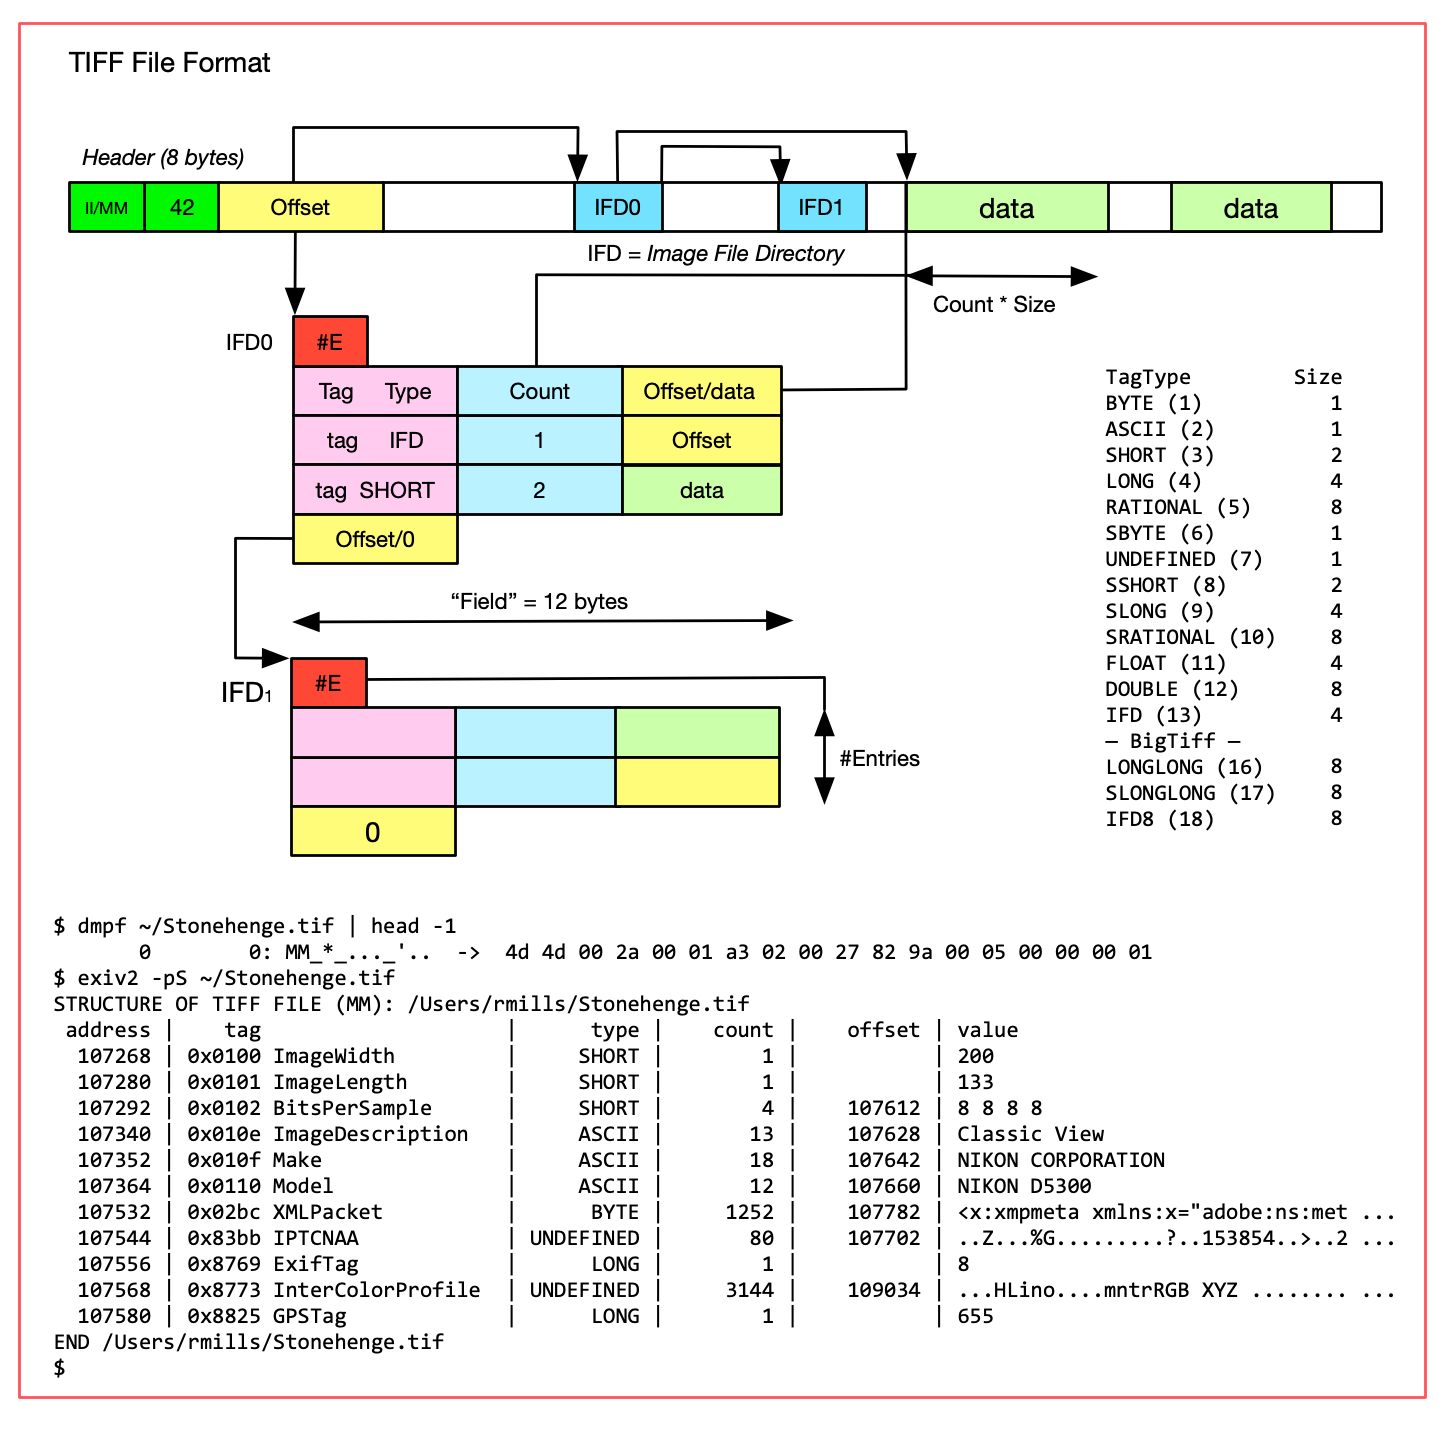
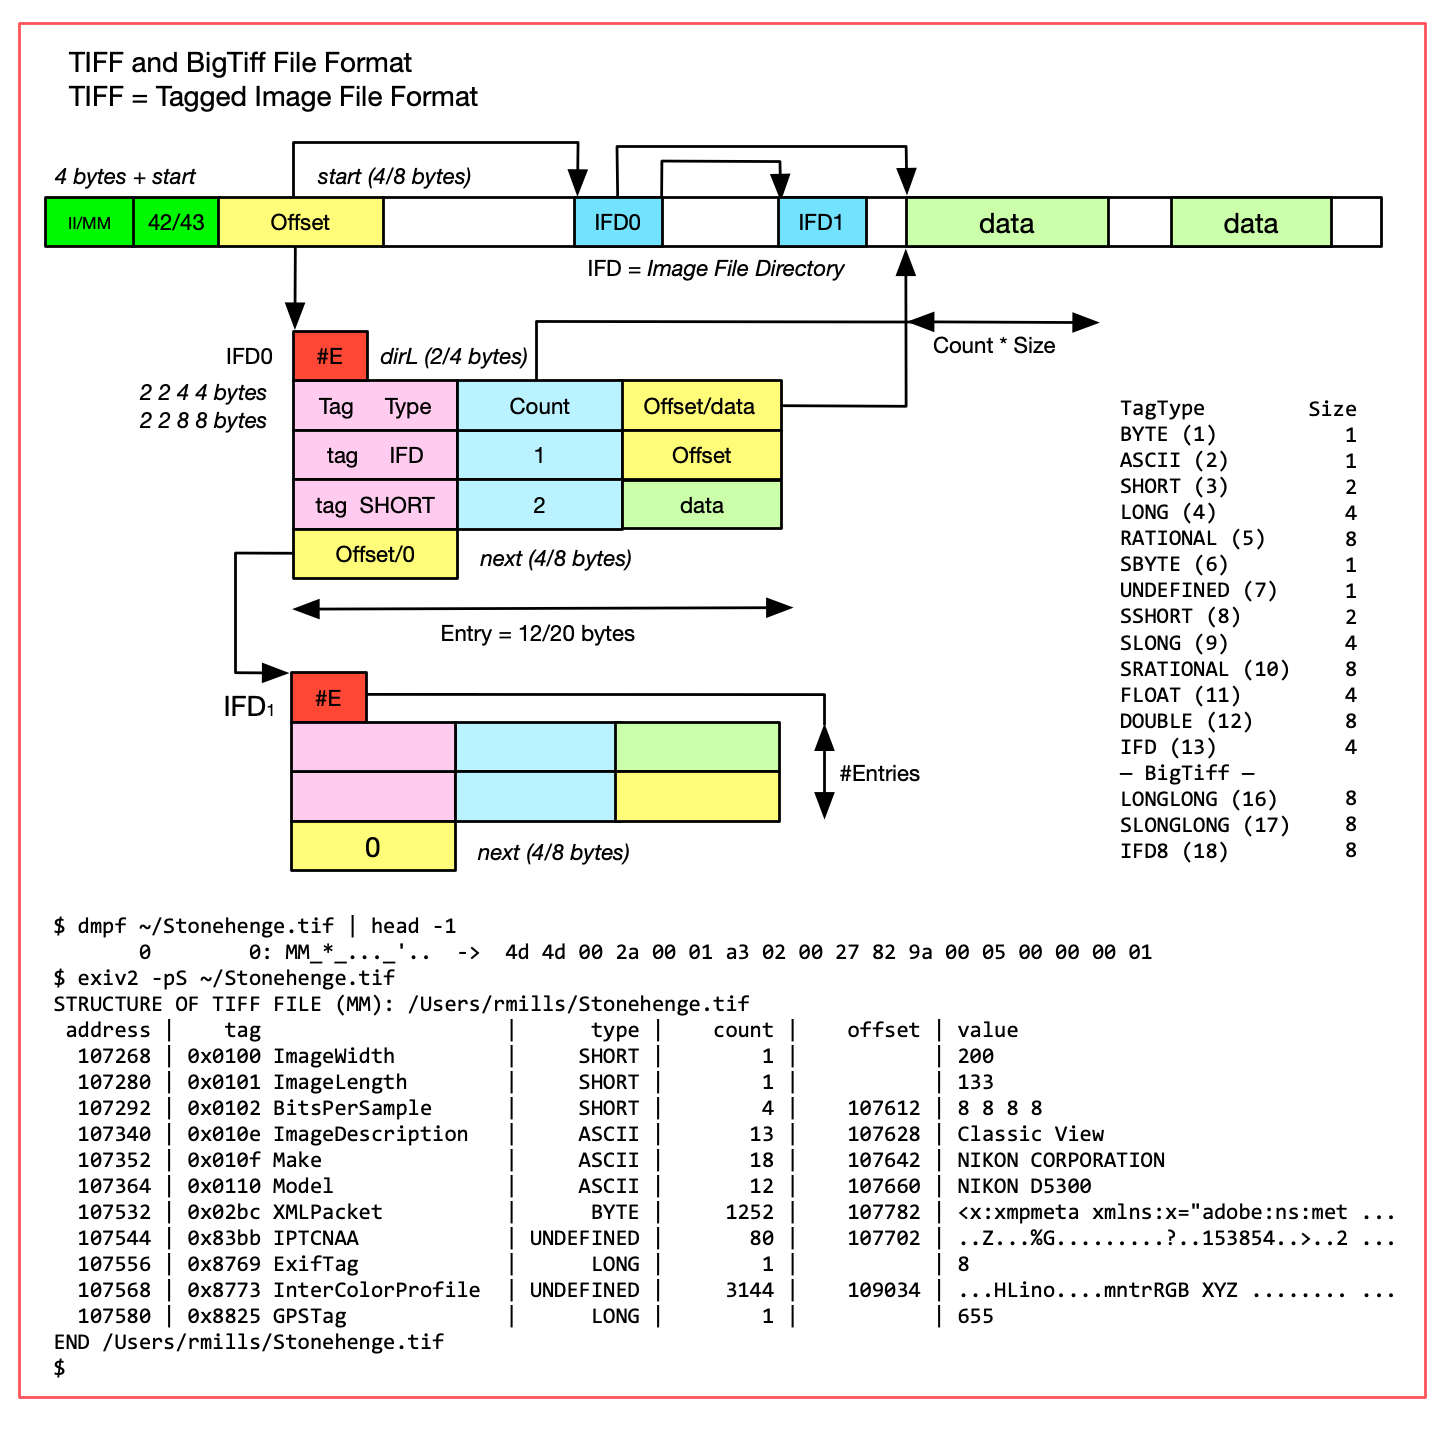
update to tiff and project management

diff --git a/book/IMaEA.md b/book/IMaEA.md
@@ -23,9 +23,9 @@ _I want to say <b>Thank You</b> to a few folks who have made this possbile.  Fir
 | [2. Tiff and Exif metadata](#2)                       | 22 | [JPEG and EXV](#JPEG)                 | 12 | [13.1 C++ Code](#13-1)                  | 56 |
 | [3. MakerNotes](#3)                                   | 23 | [PNG Portable Network Graphics](#PNG) | 10 | [13.2 Build](#13-2)                     | 57 |
 | [4. Other metadata containers](#4)                    | 24 | [JP2 Jpeg 2000](#JP2)                 | 10 | [13.3 Security](#13-3)                  | 58 |
-| [5. Lens Recognition](#5)                             | 25 | [ISOBMFF](#ISOBMFF)                   | 10 | [13.4 Documentation](#13-4)             | 59 |
-| [6. Sample Applications](#6)                          | 26 | [CRW Canon Raw](#CRW)                 | 15 | [13.5 Testing](#13-5)                   | 59 |
-| [7. I/O in Exiv2](#7)                                 | 27 | [CR2 Canon Raw Format 2](#CR2)        | 16 | [13.6 Sample programs](#13-6)           | 60 |
+| [5. Lens Recognition](#5)                             | 25 | [CRW Canon Raw](#CRW)                 | 10 | [13.4 Documentation](#13-4)             | 59 |
+| [6. Sample Applications](#6)                          | 26 | [CR2 Canon Raw Format 2](#CR2)        | 15 | [13.5 Testing](#13-5)                   | 59 |
+| [7. I/O in Exiv2](#7)                                 | 27 | [ISOBMFF, CR3, HEIF, AVI](#ISOBMFF)   | 16 | [13.6 Sample programs](#13-6)           | 60 |
 | [8. Exiv2 Architecture](#8)<br>                       | 28 | [WebP Web Photograph ](#WEBP)         | 17 | [13.7 User Support](#13-7)              | 61 |
 | [8.1 Extracting metadata using dd](#8-1)              | 29 | [PGF Portable Graphics Format](#PGF)  | 18 | [13.8 Bug Tracking](#13-8)              | 62 |
 | [8.2 Tag Names in Exiv2](#8-2)                        | 31 | [MRW Minolta Raw](#MRW)               | 19 | [13.9 Release Engineering](#13-9)       | 63 |
@@ -33,7 +33,7 @@ _I want to say <b>Thank You</b> to a few folks who have made this possbile.  Fir
 | [8.4 Visitor Design Pattern](#8-4)                    | 36 | [PSD PhotoShop Document](#PSD)        | 14 | [13.11 Localisation](#13-11)            | 65 |
 | [8.5 IFD:visit() and TiffImage::visit() ](#8-5)       | 40 | [RAF](#RAF)                           | 14 | [13.12 Build Server](#13-12)            | 66 |
 | [8.6 Presenting data with visitTag()](#8-6)<br>       | 44 | [RW2](#RW2)                           | 14 | [13.13 Source Code Management](#13-13)  | 67 |
-| [8.7 Metadata and Binary Tag Decoder](#8-7) | 47 | [TGA](#TGA)                           | 14 | [13.14 Project Web Site](#13-14)        | 68 |
+| [8.7 Metadata and Binary Tag Decoder](#8-7)           | 47 | [TGA](#TGA)                           | 14 | [13.14 Project Web Site](#13-14)        | 68 |
 | [9. Image Previews](#9)                               | 50 | [GIF Graphical Image Format](#GIF)    | 14 | [13.15 Project Servers ](#13-15)        | 68 |
 | [10. Test Suite and Build](#10)                       | 51 | [BMP Windows Bitmap](#BMP)            | 14 | [13.16 API Management](#13-16)          | 68 |
 | [10.1 Bash Tests](#10-1)                              | 53 | _**Other Sections**_                  | 14 | [13.17 Recruiting Contributors](#13-17) | 69 |
@@ -239,13 +239,13 @@ There is also the issue of patents.  It's unclear if it's legal to read an IsoBM
 ## TIFF and BigTiff
 ![tiff](tiff.png)
 
-The architecture of TIFF and BigTiff are the same.  BigTiff is 64 bit based.  So most uint16\_t data types become uint32\_t and uint32\_t become uint64\_t.  BigTiff has three additional 8 byte types: longlong, slonglong and tiffifd8.  The tag and type fields are uint16\_t in both TIFF and BigTiff.  The "magic" header for both Tiff and BigTiff is 4 bytes, followed by the offset to the First IFD.  The  offset is 4 byte uint\_32t for Tiff and and 8 byte uint64_t for BigTiff.  For both TIFF and BigTiff the Endian Marker is MM for big-endian and II for little-endian.  M = Motorala, I = Intel.
+The architecture of TIFF and BigTiff are the same.  BigTiff is 64 bit based.  So most uint16\_t data types become uint32\_t and uint32\_t become uint64\_t.  BigTiff has three additional 8 byte types: longlong, slonglong and tiffifd8.  Both tag and type are uint16\_t in TIFF and BigTiff.  The "magic" header for both Tiff and BigTiff is 4 bytes, followed by the offset to the First IFD.  The  offset is 4 byte uint\_32t for Tiff and and 8 byte uint64_t for BigTiff.  For both TIFF and BigTiff the Endian Marker is MM for big-endian and II for little-endian.  M = Motorala, I = Intel.
 
 | Element | TIFF | BigTiff | Element | TIFF | BigTiff |
 |:--       |:--  |:--    |:--       |:--  |:--    |
 | Header | EE42Offset | EE43Offset | Header | 8 bytes | 12 bytes |
 | Marker | **\*** 0x2a = 42 | **\+** 0x2b = 43 | Offset    | uint32\_t | uint64\_t |
-| Tag    | uint16\_t | uint16\_t  | Field  | 12 bytes | 20 bytes |
+| Tag    | uint16\_t | uint16\_t  | Entry  | 12 bytes | 20 bytes |
 | Type    | uint16\_t | uint16\_t  | Entries **#E** | uint16\_t | uint32\_t  |
 | Count   | uint32\_t | uint64\_t  | Next | uint32\_t | uint64\_t  | 
 
@@ -331,12 +331,6 @@ END: /Users/rmills/Stonehenge.exv
 ![jp2](jp2.png)
 
 [TOC](#TOC)
-<div id="ISOBMFF">
-## ISOBMFF
-
-To be written.
-
-[TOC](#TOC)
 <div id="CRW">
 ## CRW Canon Raw Format
 
@@ -347,6 +341,12 @@ The specification is here: [CIFFspecV1R04.pdf](https://web.archive.org/web/20081
 [TOC](#TOC)
 <div id="CR2">
 ## CR2 Canon Raw Format 2
+
+To be written.
+
+[TOC](#TOC)
+<div id="ISOBMFF">
+## ISOBMFF, CR3, HEIF, AVI
 
 To be written.
 
@@ -1850,14 +1850,29 @@ To be written.
 
 This topic deserves a book in its own right.  It's easy to think of an Open Source Project as some code.  It's not.  The code is a major part of the project, however probably only 50% of the effort goes into code.  We have many stakeholders in a project including: users, security, distros, and competitors.  The project needs documentation, build, test, bug reporting and many other elements.
 
-You may have seen the sketch in "The Life of Brian" called "What have the Romans Ever Done for Us?".  It begins with John Cleese asking the question and somebody replies "What about the aqueduct?".  With one minute they end up listing all manner of civilisation brought to Palestine including Roads, Schools, Sanitation, Police, Laws and other matters.  It's much the same with Open Source.  Of course we have C++ code, however we have many other matters that require attention.
+You may have seen the sketch in "The Life of Brian" called "What have the Romans Ever Done for Us?".  It begins with John Cleese asking the question and somebody replies "What about the aqueduct?".  Within one minute they list all manner of civilisation brought to Palestine including Roads, Schools, Sanitation, Police, Laws and other matters.  It's much the same with Open Source.  Of course we have C++ code, however we have many other matters that require attention.
 
 You are probably not surprised to learn that most users and stakeholders consider their concern should be the top priority for the project.  The challenge is that there are many stakeholders and therefore many top priorities.  When dealing with a stakeholder's issue, they frequently say "All you have to do is bla bla bla".  In my head, I hear the words in a slightly different order.  I hear "You have to do it all".
 
-For example, when somebody provides a patch, they seldom provide test code or updates to the documentation or build scripts.  The feature is often incomplete.  For example, in adding a new platform, they seldom provide platform specific code in src/version.cpp and src/futils.cpp.  Sometimes they break all the sample applications.  When I ask them to do that they say: "oh you can do that.".  Nobody ever maintains or supports their patch.  Contributors seldom change their patch when asked to do so in a review.
+For example, when somebody provides a patch, they seldom provide test code or updates to the documentation or build scripts.  The feature is often incomplete.  For example, in adding a new platform, they seldom provide platform specific code in src/version.cpp and src/futils.cpp.  Sometimes they break all the sample applications.  When I ask them to finish the job, they say: "oh you can do that.".  Nobody ever maintains or supports their patch.  Contributors seldom change their patch when asked to do so in a review.
 
-I have found recruiting contributors to be one of the most challenging and difficult aspects of maintaining Exiv2.  I appreciate the work done by everybody who has contributed.  The future of Exiv2 is a matter for the community.  Perhaps this book will inspire somebody to write a replacement.
+I have found recruiting contributors to be the most challenging and difficult aspect of maintaining Exiv2.  I appreciate the work done by everybody who has contributed.  The future of Exiv2 is a matter for the community.  Perhaps this book will inspire somebody to write a replacement.
 
+The difficulties of maintaining an open-source project are well documented in this article: [https://steemit.com/opensource/@crell/open-source-is-awful](https://steemit.com/opensource/@crell/open-source-is-awful) from which I have copied this cartoon:
+
+<center>![open-source-today.jpg](open-source-today.jpg)</center>
+
+I will quote the following as it seems totally true.
+
+_But if most businesses are using Open Source code for free, how are the developers compensated for that real time and effort? In the majority of cases the answer is "with verbal abuse and emotional blackmail."_
+
+_They very largest projects (the Linux kernel, the Firefox web browser, etc.) often end up with a few smart companies realizing it's in their self-interest to fund full time development, and most of their work ends up being non-volunteer. They're not the problem. The problem is the mid-range to small projects, maintained by volunteers, that get short-shrifted. People don't value free._
+
+_Not a month goes by in the last several years without some maintainer of an Open Source project throwing up their hands in frustration and walking away because of burnout; burnout caused, invariably, by the demands that people make of their free time. The code was free, so why isn't free support and personalized help available for life???_
+
+And while I am aware that I can be difficult at times, I am astonished at the verbal abuse I have received.  About every three years I receive an email from somebody I have never met thanking me for my efforts.  I get daily emails of criticism and complaint.  I will not mention by name a French Engineer on whose behalf I have spent hundreds of hours.  Not once has he expressed respect or appreciation.
+
+[TOC](#TOC)
 <div id="13-1">
 ### 13.1) C++ Code
 
@@ -1889,7 +1904,7 @@ Exiv2 has dependencies on the following libraries.  All are optional, however it
 
 Starting with Exiv2 v0.27, we can use conan to build dependencies.  I very much appreciate Luis bringing this technology to Exiv2 as it has hugely simplified building with Visual Studio.  In the CI builders on GitHub, conan is also used to build on Linux and macOS.  At this time (June 2020), I haven't been able to get conan to work on Cygwin and/or MinGW/msys2.  I expect that will soon be rectified.
 
-Prior to using conan, the build environment for Visual Studio were hand built for Visual Studio 2005 and relied on Visual Studio to convert them to the edition in use.  Additionally, source trees for dependencies were required in specify locations on storage.  We did support CMake on Visual Studio, however it was buried in a 500 line cmd file `cmakeBuild.cmd`.  The effort to construct and maintain that apparatus was considerable.
+Prior to using conan, the build environment for Visual Studio were hand built for Visual Studio 2005 and relied on Visual Studio to convert them to the edition in use.  Additionally, source trees for dependencies were required in specific locations on storage.  We did support CMake on Visual Studio, however it required in a 500 line cmd file `cmakeBuild.cmd` to download and build the dependencies.  The effort to create and maintain that apparatus was considerable.
 
 Conan brings a fresh approach to building dependencies.  Every dependancy has a "recipe" which tells conan how to build.  We have a file conanfile.py (written in python) which tells conan which dependencies we need.  Conan follows the recipe to obtain and build the dependency which is cached or future use.  When dealing with very large libraries such as openssl, the recipe might pull prebuilt binaries for your requested configuration.  For more modest libraries (such as expat and zlib), the recipe will pull the source and build.  Conan caches the dependencies on your ~/.conan directory.  This arrangement means that you seldom have to build dependencies as they are usually in the cache.
 
